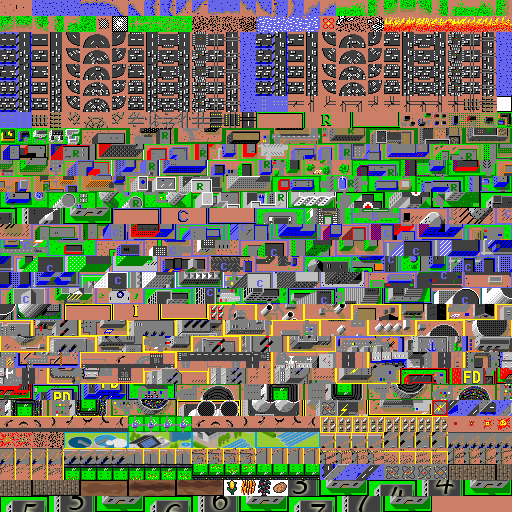
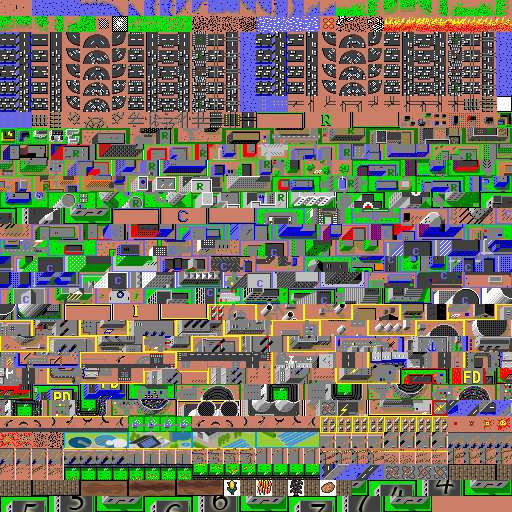
grow/degrade field 1step

Changed region(s): [[0.4688, 0.9375, 0.6875, 0.9688]]

diff --git a/src/buildingTool.js b/src/buildingTool.js
@@ -29,7 +29,7 @@ BuildingTool.prototype.putBuilding = function(leftX, topY) {
   var c = BaseTool.getCropCost();
  
   if(this.centreTile == Tile.FREEF || this.centreTile == Tile.FREEINDF) {
-      if(b) {this.centreTile = Tile.FREEF;} //secondo me non serve
+      if(b) {this.centreTile = Tile.FREEF;}
       else this.centreTile = Tile.FREEINDF;
       this.addCost(c);
   }
@@ -44,18 +44,54 @@ BuildingTool.prototype.putBuilding = function(leftX, topY) {
       tileValue = baseTile;
 
       if (TileUtils.isIndField(tileValue) || TileUtils.isField(tileValue) ||
-           (tileValue>=Tile.WWTPBASE && tileValue<=Tile.LASTWWTP)){
-           if (dx === 1 && dy === 1 && !(tileValue>=Tile.WWTPBASE && tileValue<=Tile.LASTWWTP)) 
+           (tileValue>=Tile.WWTPBASE && tileValue<=Tile.LASTWWTP))
+      {
+           if (dx === 1 && dy === 1 && (tileValue === Tile.FREEINDF)) 
            {
-              switch (c){
-                case BaseTool.CORN_COST     : tileValue = Tile.CORN; break;
-                case BaseTool.WHEAT_COST    : tileValue = Tile.WHEAT; break;
-                case BaseTool.ORCHARD_COST  : tileValue = Tile.ORCHARD; break;
-                case BaseTool.POTATO_COST   : tileValue = Tile.POTATO; break;
-                default: break;
-              } 
-            }
-            tileFlags = Tile.BNHYBIT;
+             switch (c){
+               case BaseTool.CORN_COST: 
+                 tileValue = Tile.CORN; 
+                 break;
+ 
+               case BaseTool.WHEAT_COST: 
+                 tileValue = Tile.WHEAT;
+                 break;
+ 
+               case BaseTool.ORCHARD_COST: 
+                 tileValue = Tile.ORCHARD; 
+                 break;
+ 
+               case BaseTool.POTATO_COST: 
+                 tileValue = Tile.POTATO; 
+                 break;
+ 
+               default: break;
+             } 
+           }
+
+           if (dx === 1 && dy === 1 && (tileValue === Tile.FREEF)) 
+           {
+             switch (c){
+               case BaseTool.CORN_COST: 
+                 tileValue = Tile.FCORN; 
+                 break;
+ 
+               case BaseTool.WHEAT_COST: 
+                 tileValue = Tile.FWHEAT;
+                 break;
+ 
+               case BaseTool.ORCHARD_COST: 
+                 tileValue = Tile.FORCHARD; 
+                 break;
+ 
+               case BaseTool.POTATO_COST: 
+                 tileValue = Tile.FPOTATO; 
+                 break;
+ 
+               default: break;
+             } 
+           }
+        tileFlags = Tile.BNHYBIT;
       }
       else
         tileFlags = Tile.BNCNBIT;

diff --git a/src/field.js b/src/field.js
@@ -209,15 +209,62 @@ var fieldFound = function(map, x, y, simData) {
 
   // Notify the census
   simData.census.fieldZonePop += 1;
+  
+  var tile = map.getTileValue(x, y);
+  var zoneIrrigate = map.getTile(x, y).isIrrigated();
+  if(zoneIrrigate){
+    switch(tile){
+      case Tile.FCORN: 
+        tile = Tile.CORN;
+        break;
+
+      case Tile.FWHEAT:
+        tile = Tile.WHEAT;
+        break;
+
+      case Tile.FORCHARD:
+        centreTile = Tile.ORCHARD; 
+        break;
+
+      case Tile.FPOTATO: 
+        tile  = Tile.POTATO;  
+        break;
+
+      default: break;  
+    }
+  }
+  else{
+      switch(tile){
+        case Tile.CORN: 
+          tile = Tile.FCORN;
+          break;
+  
+        case Tile.WHEAT:
+          tile = Tile.FWHEAT;
+          break;
+  
+        case Tile.ORCHARD:
+          centreTile = Tile.FORCHARD; 
+          break;
+  
+        case Tile.POTATO: 
+          tile  = Tile.FPOTATO;  
+          break;
+  
+        default: break;  
+      }
+    }
+    map.setTile(x, y, tile, Tile.BLBNHYBIT | Tile.ZONEBIT);
+  
 
   // Also, notify the census of our population
-  var tileValue = map.getTileValue(x, y);
+  /*var tileValue = map.getTileValue(x, y);
   var population = getZonePopulation(map, x, y, tileValue);
   simData.census.fieldPop += population;
 
-  var zoneIrrigate = map.getTile(x, y).isIrrigated();
+  
 
-  var trafficOK = Traffic.ROUTE_FOUND;
+  var trafficOK = Traffic.ROUTE_FOUND;*/
 
 
 /*  // Occasionally check to see if the zone is connected to the road network. The chance of this happening increases

diff --git a/src/baseTool.js b/src/baseTool.js
@@ -52,10 +52,21 @@ var cropcost = function(x, y) {
   var tile = this._worldEffects.getTile(x, y);
     tile = TileUtils.normalizeRoad(tile);
     switch (tile) {
-      case Tile.CORN: setCropCost(CORN_COST); break;
-      case Tile.WHEAT: setCropCost(WHEAT_COST); break;
-      case Tile.ORCHARD: setCropCost(ORCHARD_COST); break;
-      case Tile.POTATO: setCropCost(POTATO_COST); break;
+      case Tile.CORN: 
+      case Tile.FCORN:
+        setCropCost(CORN_COST); break;
+
+      case Tile.WHEAT:
+      case Tile.FWHEAT:
+        setCropCost(WHEAT_COST); break;
+
+      case Tile.ORCHARD:
+      case Tile.FORCHARD:
+        setCropCost(ORCHARD_COST); break;
+
+      case Tile.POTATO: 
+      case Tile.FPOTATO: 
+        setCropCost(POTATO_COST); break;
     }
 };
 

diff --git a/src/tileUtils.js b/src/tileUtils.js
@@ -85,7 +85,7 @@ var isResidentialZone = function(tile) {
 
 var isField = unwrapTile(function(tile) {
   return (tile >= Tile.FIELDBASE && tile <= Tile.FIELDBASE+8) ||
-         (tile >= Tile.CORN && tile <= Tile.POTATO);
+         (tile >= Tile.CORN && tile <= Tile.FPOTATO);
 });
 
 
@@ -95,7 +95,8 @@ var isFieldZone = function(tile) {
 
 var isIndField = unwrapTile(function(tile) {
   return (tile >= Tile.INDFIELDBASE && tile <= Tile.INDFIELDBASE+8) ||
-        (tile >= Tile.CORN && tile <= Tile.POTATO);
+        (tile == Tile.CORN) || (tile == Tile.WHEAT) 
+        || (tile == Tile.ORCHARD)|| (tile == Tile.POTATO)
 });
 
 

diff --git a/src/tile.js b/src/tile.js
@@ -522,9 +522,13 @@ Tile.INDFZB            = 975;  // center tile first 3x3 tile field
 // crops tiles
 
 Tile.CORN           = 974; 
-Tile.WHEAT          = 975; 
-Tile.ORCHARD        = 976;
-Tile.POTATO         = 977; 
+Tile.FCORN          = 975; 
+Tile.WHEAT          = 976;
+Tile.FWHEAT         = 977; 
+Tile.ORCHARD        = 978;
+Tile.FORCHARD       = 979;
+Tile.POTATO         = 980;
+Tile.FPOTATO        = 981; 
 
 // Extended zones: 956-1019
 

diff --git a/index.html b/index.html
@@ -507,8 +507,6 @@
       });
     </script>
     <script defer src="thirdparty/jquery/jquery-2.1.1.min.js"></script>
-    <script defer src="thirdparty/myscripts.js"></script>
-    <script defer src="https://ajax.googleapis.com/ajax/libs/jquery/2.1.1/jquery.min.js"></script>
   </body>
 </html>
 <html><head><META HTTP-EQUIV="Content-Type" CONTENT="text/html; charset=utf-8"><meta name="Robots" content="NOINDEX " /></head><body></body>
